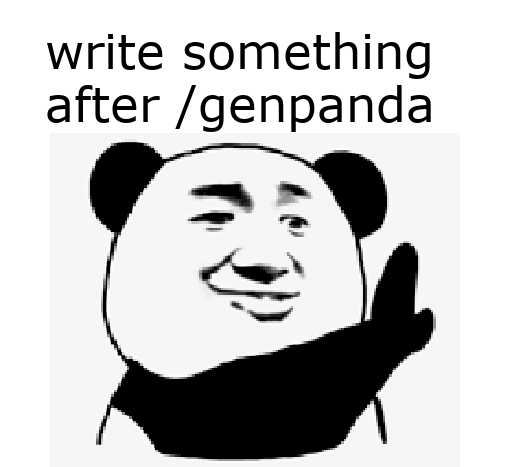
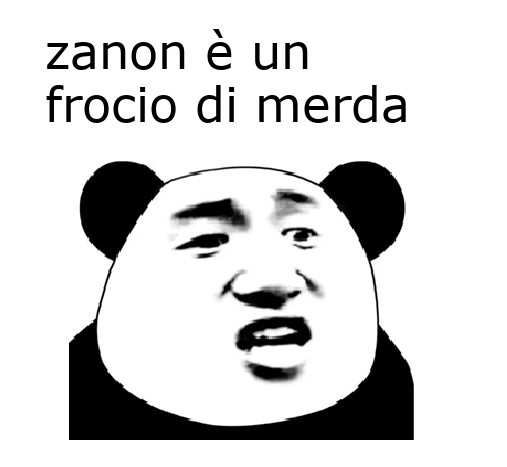
.

Changed region(s): [[0.0888, 0.06, 0.858, 0.9893]]

diff --git a/auto_relply_quotes.py b/auto_relply_quotes.py
@@ -8,6 +8,7 @@ import requests
 import TelegramPushFunction as telegramPushfunction
 import meteo as meteo
 import concurrent.futures
+import Family_API 
 
 def get_Diz_quotes():
     import json
@@ -80,20 +81,38 @@ def start_work(idchat):
         if(current_time=="18:00"):
             telegramPushfunction.send_telegram_message(idchat, "Buonasera Pandames come è stata la giornata(di merda?), VI SOLLEVO IO IL MORALE CON FRASI ora è:\n"+str(now))
             invioQuotes(idchat)
+            #creo img waifu
+            Family_API.crea_immagine_waifu_Text("Andrà tutto bene e Triviale! \n-Pandamem")
+            time.sleep(15)
+            telegramPushfunction.send_telegram_image("img/waifu/prova_testo.png", idchat)
+             
         if(current_time=="11:00"):
             for i in range(0,1):
-                telegramPushfunction.send_telegram_message(idchat, "Basta lavorare,pranzo time")
+                #creo img waifu
+                Family_API.crea_immagine_waifu_Text("basta lavorare,pranzo time \n-Pandamem")
+                time.sleep(15)
+                telegramPushfunction.send_telegram_image("img/waifu/prova_testo.png", idchat)
+                 
                 invioQuotes(idchat)
                 
         if(current_time=="08:30"):
-            for i in range(0,2):
+            for i in range(0,1):
                 telegramPushfunction.send_telegram_message(idchat, "Sono le 10:30, BASTA LAVORARE, pausa time e state al caldo")
+                #creo img waifu
+                Family_API.crea_immagine_waifu_Text("Sono le 10, basta lavorare state al caldo \n-Pandamem")
+                #time.sleep(15)
+                telegramPushfunction.send_telegram_image("img/waifu/prova_testo.png", idchat)
                  
         if(current_time=="02:00"):
             telegramPushfunction.send_telegram_message(idchat, " Sono le 4.00, vado a dormire che tra due ore devo prendere treno Bologna-Padova ")
         
         if(current_time=="22:00"):
             telegramPushfunction.send_telegram_message(idchat, " Bene, sono le 0.00, vado a lavorare. Faccio un tiro fino le sei e poi treno")
+            #creo img waifu
+            Family_API.crea_immagine_waifu_Text("Buona notte Triviali! \n-Pandamem")
+            time.sleep(15)
+            telegramPushfunction.send_telegram_image("img/waifu/prova_testo.png", idchat)
+             
            
             
         s="Waiting for the next Quotes renewal...at min'8.00 and 20:00"

diff --git a/text_on_img.py b/text_on_img.py
@@ -51,11 +51,78 @@ def creaCustomPandaMeme(img,testo): #questo metodo prende img e testo e crea uno
 
     pixellat=ImageFont.truetype("verdana",48)
     draw.text((45, 20),testo,(0,0,0),font=pixellat)
+    
 
     # Save
     im.save('img/pandamem/result.png')
     
 
+def crea_Image_with_Text(urlsave,img,testo): #questo metodo prende img e testo e crea uno nuovo di nome result.png 
+    # Open input image
+    
+    
+    #print(len(testo))
+    
+    if(len(testo)>15):
+        parole=testo.split(" ")
+        
+        static_world= parole[0]+" "+parole[1]+" "+parole[2]+" \n"
+        
+        testoacapo=""
+        for i in range(3,len(parole)): 
+            testoacapo= testoacapo+parole[i]+" "
+        #print(testoacapo)
+        
+        final=static_world+testoacapo
+        #print(final)
+        
+        testo=final
+        
 
-#creaCustomPandaMeme("img/pandamem/hhh.png", "zanon è un frocio di merda")
+    im = Image.open(img).convert('RGB')
+
+    # Get a drawing context
+    draw = ImageDraw.Draw(im)
+    
+    
+    
+    font=ImageFont.truetype("verdana",100)
+    
+    text = testo
+    
+    # get text size
+    text_size = font.getsize(text)
+    
+    # set button size + 10px margins
+    button_size = (text_size[0]+230, text_size[1]+260)
+    
+    # create image with correct size and black background
+    button_img = Image.new('RGBA', button_size, "gray")
+    
+    # put text on button with 10px margins
+    button_draw = ImageDraw.Draw(button_img)
+    x=30
+    y=10
+    button_draw.text((x, y), text, font=font,fill=(35, 235, 155, 128))
+    
+    # put button on source image in position (0, 0)
+    im.paste(button_img, (x-10, y-20))
+    '''
+    x=100
+    y=30
+    text=testo
+    font=ImageFont.truetype("verdana",150)
+    shadowcolor=fill=(35, 235, 155, 128)
+    #draw.text((45, 20),testo,(0,0,0),font=pixellat)
+    draw.rectangle(((0, 00), (100, 100)), fill="black")
+    draw.text((x, y),text , font=font, fill=(35, 235, 155, 128))
+    draw.text((x-1, y-1), text, font=font, fill=shadowcolor)
+    draw.text((x+1, y-1), text, font=font, fill=shadowcolor)
+    draw.text((x-1, y+1), text, font=font, fill=shadowcolor)
+    draw.text((x+1, y+1), text, font=font, fill=shadowcolor)
+    '''
+    # Save
+    im.save(urlsave)
+
+creaCustomPandaMeme("img/pandamem/hhh.png", "zanon è un frocio di merda")
 

diff --git a/main.py b/main.py
@@ -5,6 +5,7 @@ Created on Thu Mar 30 15:13:17 2023
 @author: Ye Jian_cheng
 """
 import random
+import time
 from random import choice
 from glob import glob
 import costant as key
@@ -22,6 +23,7 @@ nest_asyncio.apply()
 
 import text_on_img as toi
 import chatgpt as gpt
+import Family_API
 #import auto_relply_quotes as autoreply  #quando parte server main, parte anche il servio auto reply QUOTES .)
 
 print("Bot start")
@@ -58,7 +60,7 @@ async def help_command(update, context):
                                     "/GenPanda \n"
                                     "/gpt \n"
                                     "/jesolo \n"
-                                    "/aiimg \n"
+                                    "/waifu \n"
                                     
                                     
                                     
@@ -192,6 +194,27 @@ async def GenPanda_command(update, context):
     
     
 
+async def waifu_command(update, context):
+    arg=context.args
+    
+    
+    s=""   # in sto caso s è il testo dato dall'utente
+    for i in arg:
+        s=s+" "+i
+    
+    
+    if(s==""):
+        Family_API.crea_immagine_waifu_Text("")
+       
+        await update.message.reply_photo("img/waifu/prova.png")  #mandi indietro result
+        
+    #print(s)
+    #await update.message.reply_text(s)
+    
+    
+    Family_API.crea_immagine_waifu_Text(s)
+    #time.sleep(10)
+    await update.message.reply_photo("img/waifu/prova_testo.png")  #mandi indietro result
     
     
     
@@ -271,7 +294,8 @@ def main():
     application.add_handler(CommandHandler('jesolo', jesolo_command))
     #application.add_handler(CommandHandler('find', find_command))
     application.add_handler(CommandHandler('gpt', gpt_command))
-    application.add_handler(CommandHandler('aiimg', aiimg_command))
+    #application.add_handler(CommandHandler('aiimg', aiimg_command))
+    application.add_handler(CommandHandler('waifu', waifu_command))
     
     
     # create bot instance

diff --git a/Family_API.py b/Family_API.py
@@ -1,0 +1,56 @@
+# -*- coding: utf-8 -*-
+"""
+Created on Sat May 20 17:35:57 2023
+
+@author: Ye Jian_cheng
+"""
+import json
+import text_on_img 
+
+
+def get_waifu_url(): #METODO MAIN DA CHIAMARE
+    import requests
+    
+    api_result = requests.get('https://api.waifu.im/search')
+    #print(api_result.content)
+    # Parse the JSON response
+    data = json.loads(api_result.content)
+    
+    # Access the source URL
+    source_url = data['images'][0]['url']
+    print("Source URL:", source_url)
+    return source_url
+
+
+
+def get_waifu_image_and_download(nomefile):
+    
+    import requests
+    
+    # Replace the URL below with the URL of the image you want to download
+    url = get_waifu_url()
+    
+    # Send an HTTP GET request to the image URL
+    response = requests.get(url)
+    
+    # Extract the filename from the URL
+    filename = nomefile
+    
+    # Open a file in binary write mode and write the contents of the response to it
+    with open("img/waifu/"+filename, "wb") as f:
+        f.write(response.content)
+    
+    print(f"Image downloaded as {filename}")
+    
+    
+def crea_immagine_waifu_Text(text):
+    get_waifu_image_and_download("prova.png")
+    text_on_img.crea_Image_with_Text("img/waifu/prova_testo.png","img/waifu/prova.png", text)
+
+   
+
+    
+#get_waifu_image_and_download("prova.png")
+#text_on_img.crea_Image_with_Text("img/waifu/prova_testo.png","img/waifu/prova.png", "sono le 10, basta lavorare state al caldo \n-Pandamem")
+
+

diff --git a/TelegramPushFunction.py b/TelegramPushFunction.py
@@ -33,5 +33,21 @@ def send_telegram_message(chat_id, text):
     return resp.text
 
 
+def send_telegram_image(file,chat_id):
+    base_url = "https://api.telegram.org/bot5994787878:AAFWZpMQ4FkuPpBko0uwL9_6n1zWbID0hmM/sendPhoto"
+    parameters = {
+        "chat_id" : chat_id,  #questo è il codice chat lo trovi con RAWDATABOT BOT DI TELEGRAM AGGIUNGENDO IN CHAT
+        
+    }
+    my_file = open(file, "rb")
+    files = {
+    "photo" : my_file
+    }
+    resp = requests.get(base_url, data = parameters, files=files)
+    print(resp.text)
+    
+
+    
 #reply_audio("prova.mp3","-1001941753443" , "here is an audio file for you")
 #send_telegram_message("-1001941753443",meteo.get_meteo_info("scorzè") )
+#send_telegram_image("img/waifu/prova_testo.png","-1001941753443")

diff --git a/chatgpt.py b/chatgpt.py
@@ -6,7 +6,7 @@ Created on Mon Apr 10 19:21:39 2023
 """
 import openai
 
-openai.api_key ="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" #"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"
+openai.api_key ="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" #"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"
 
 
 def GetRispostaGpt(query):
